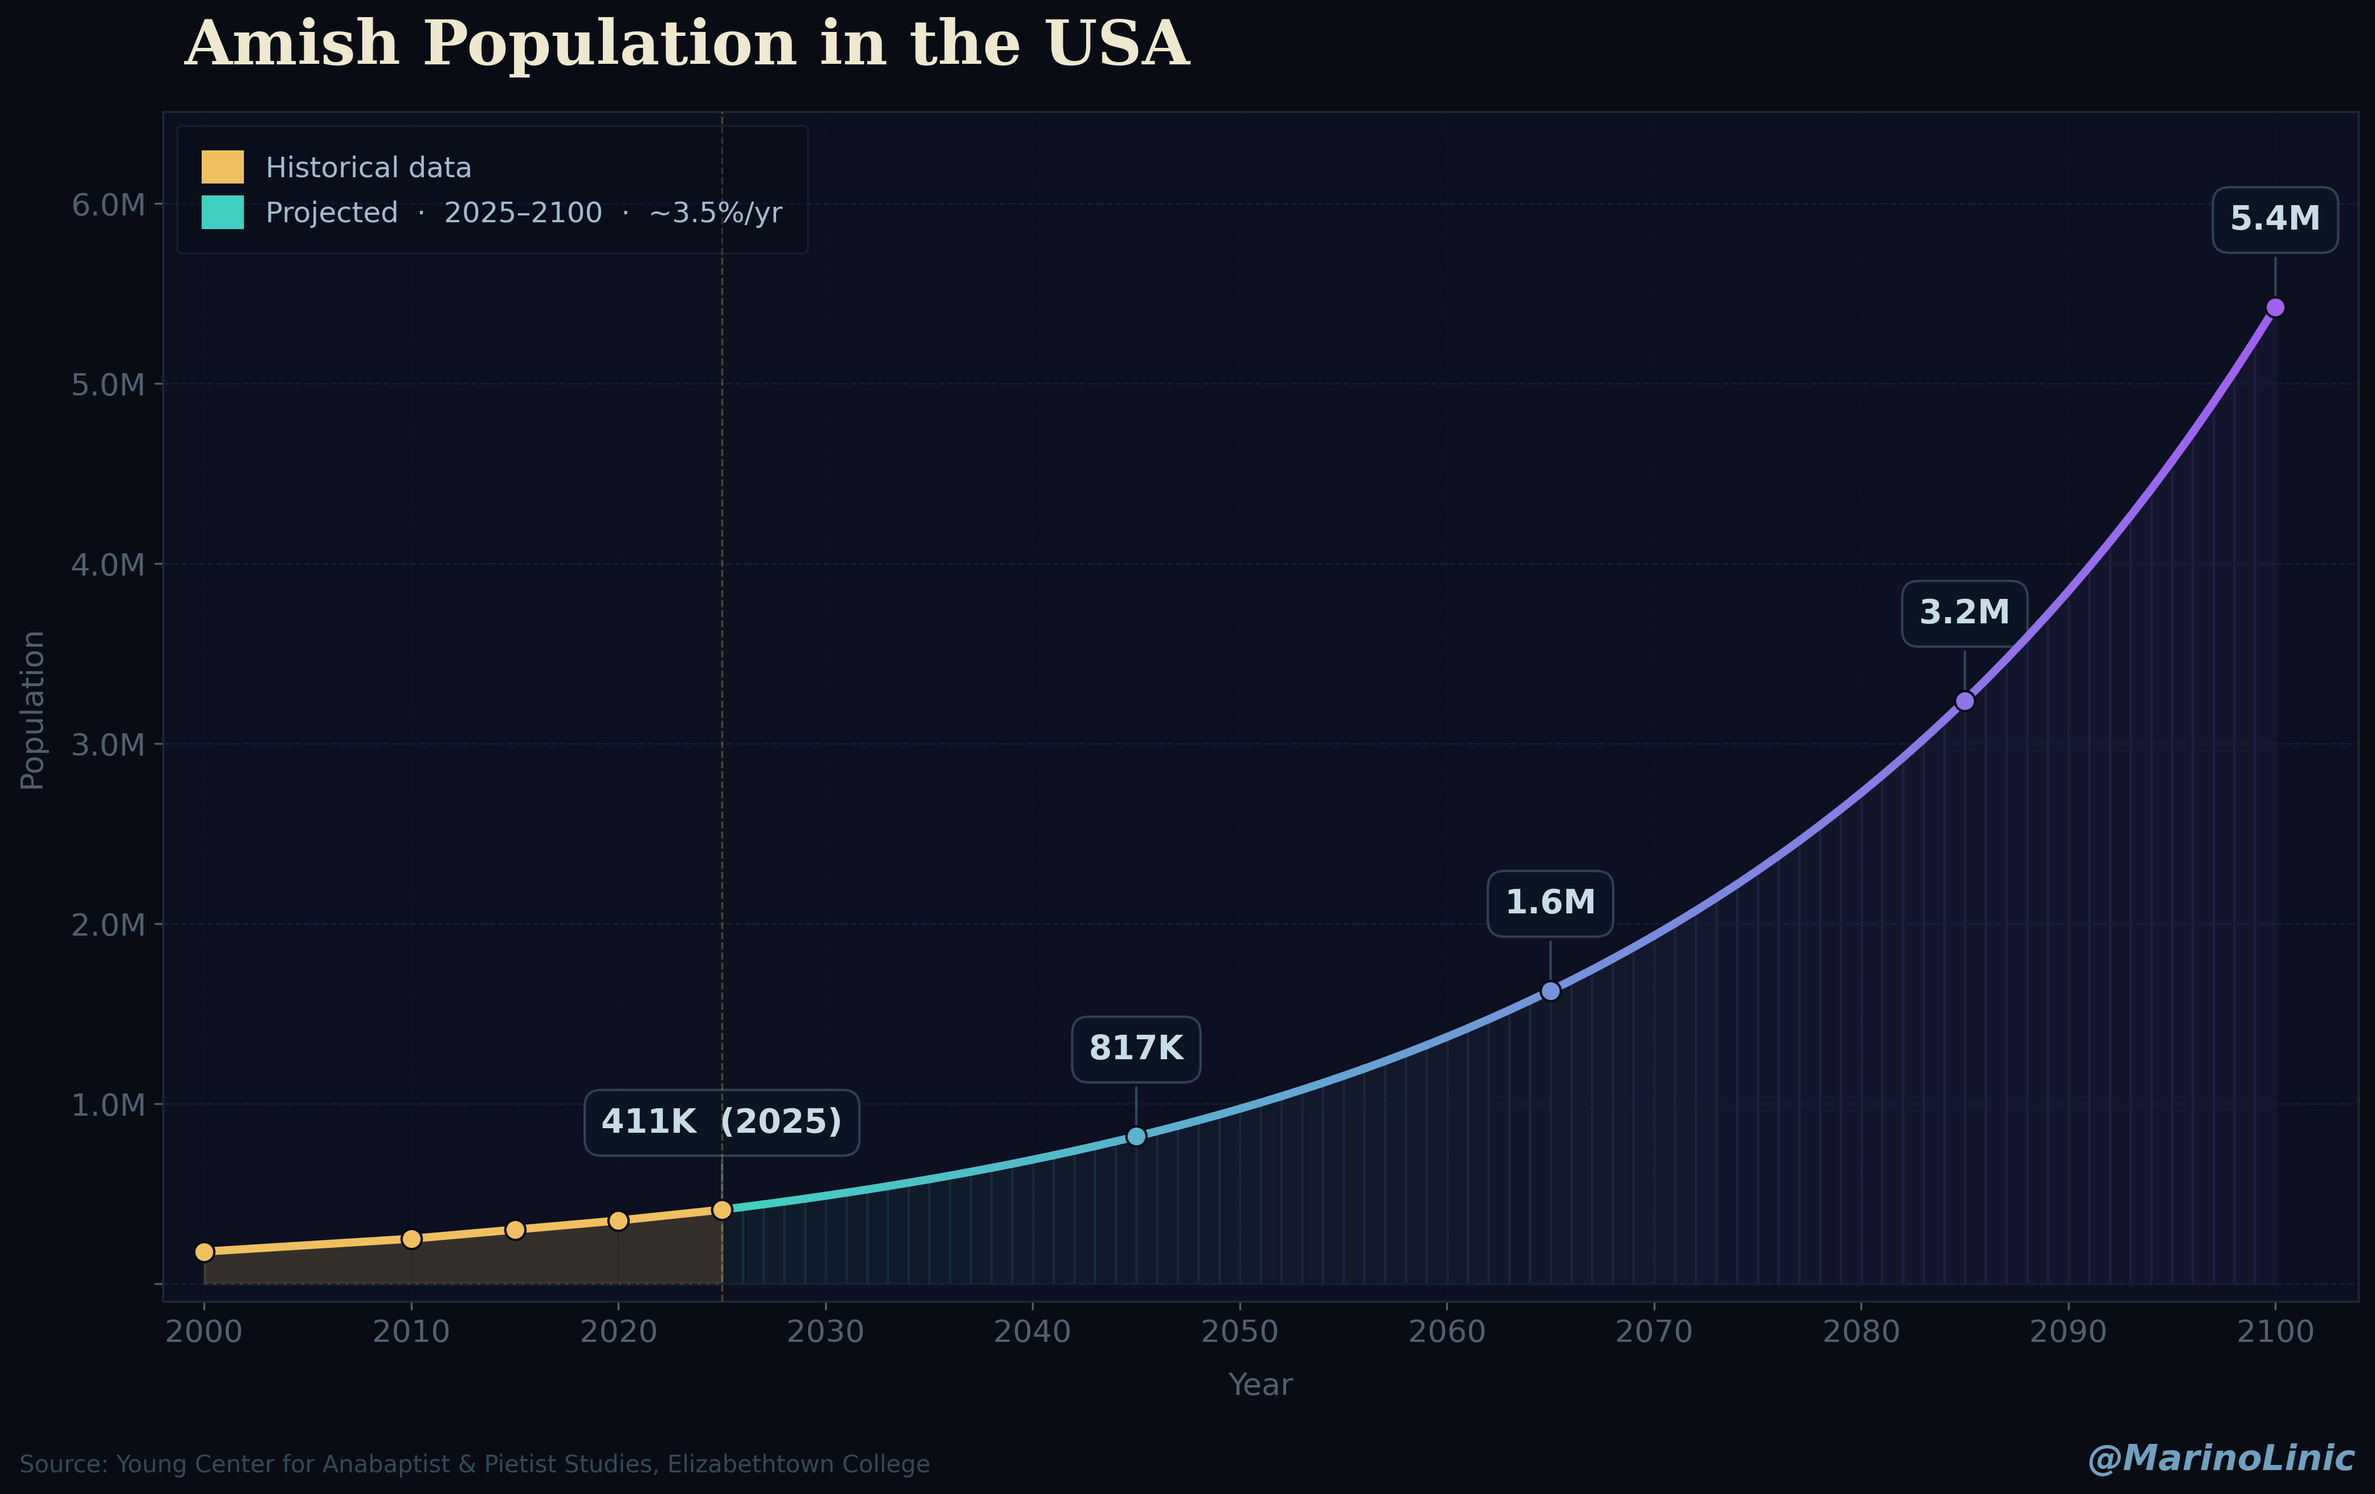
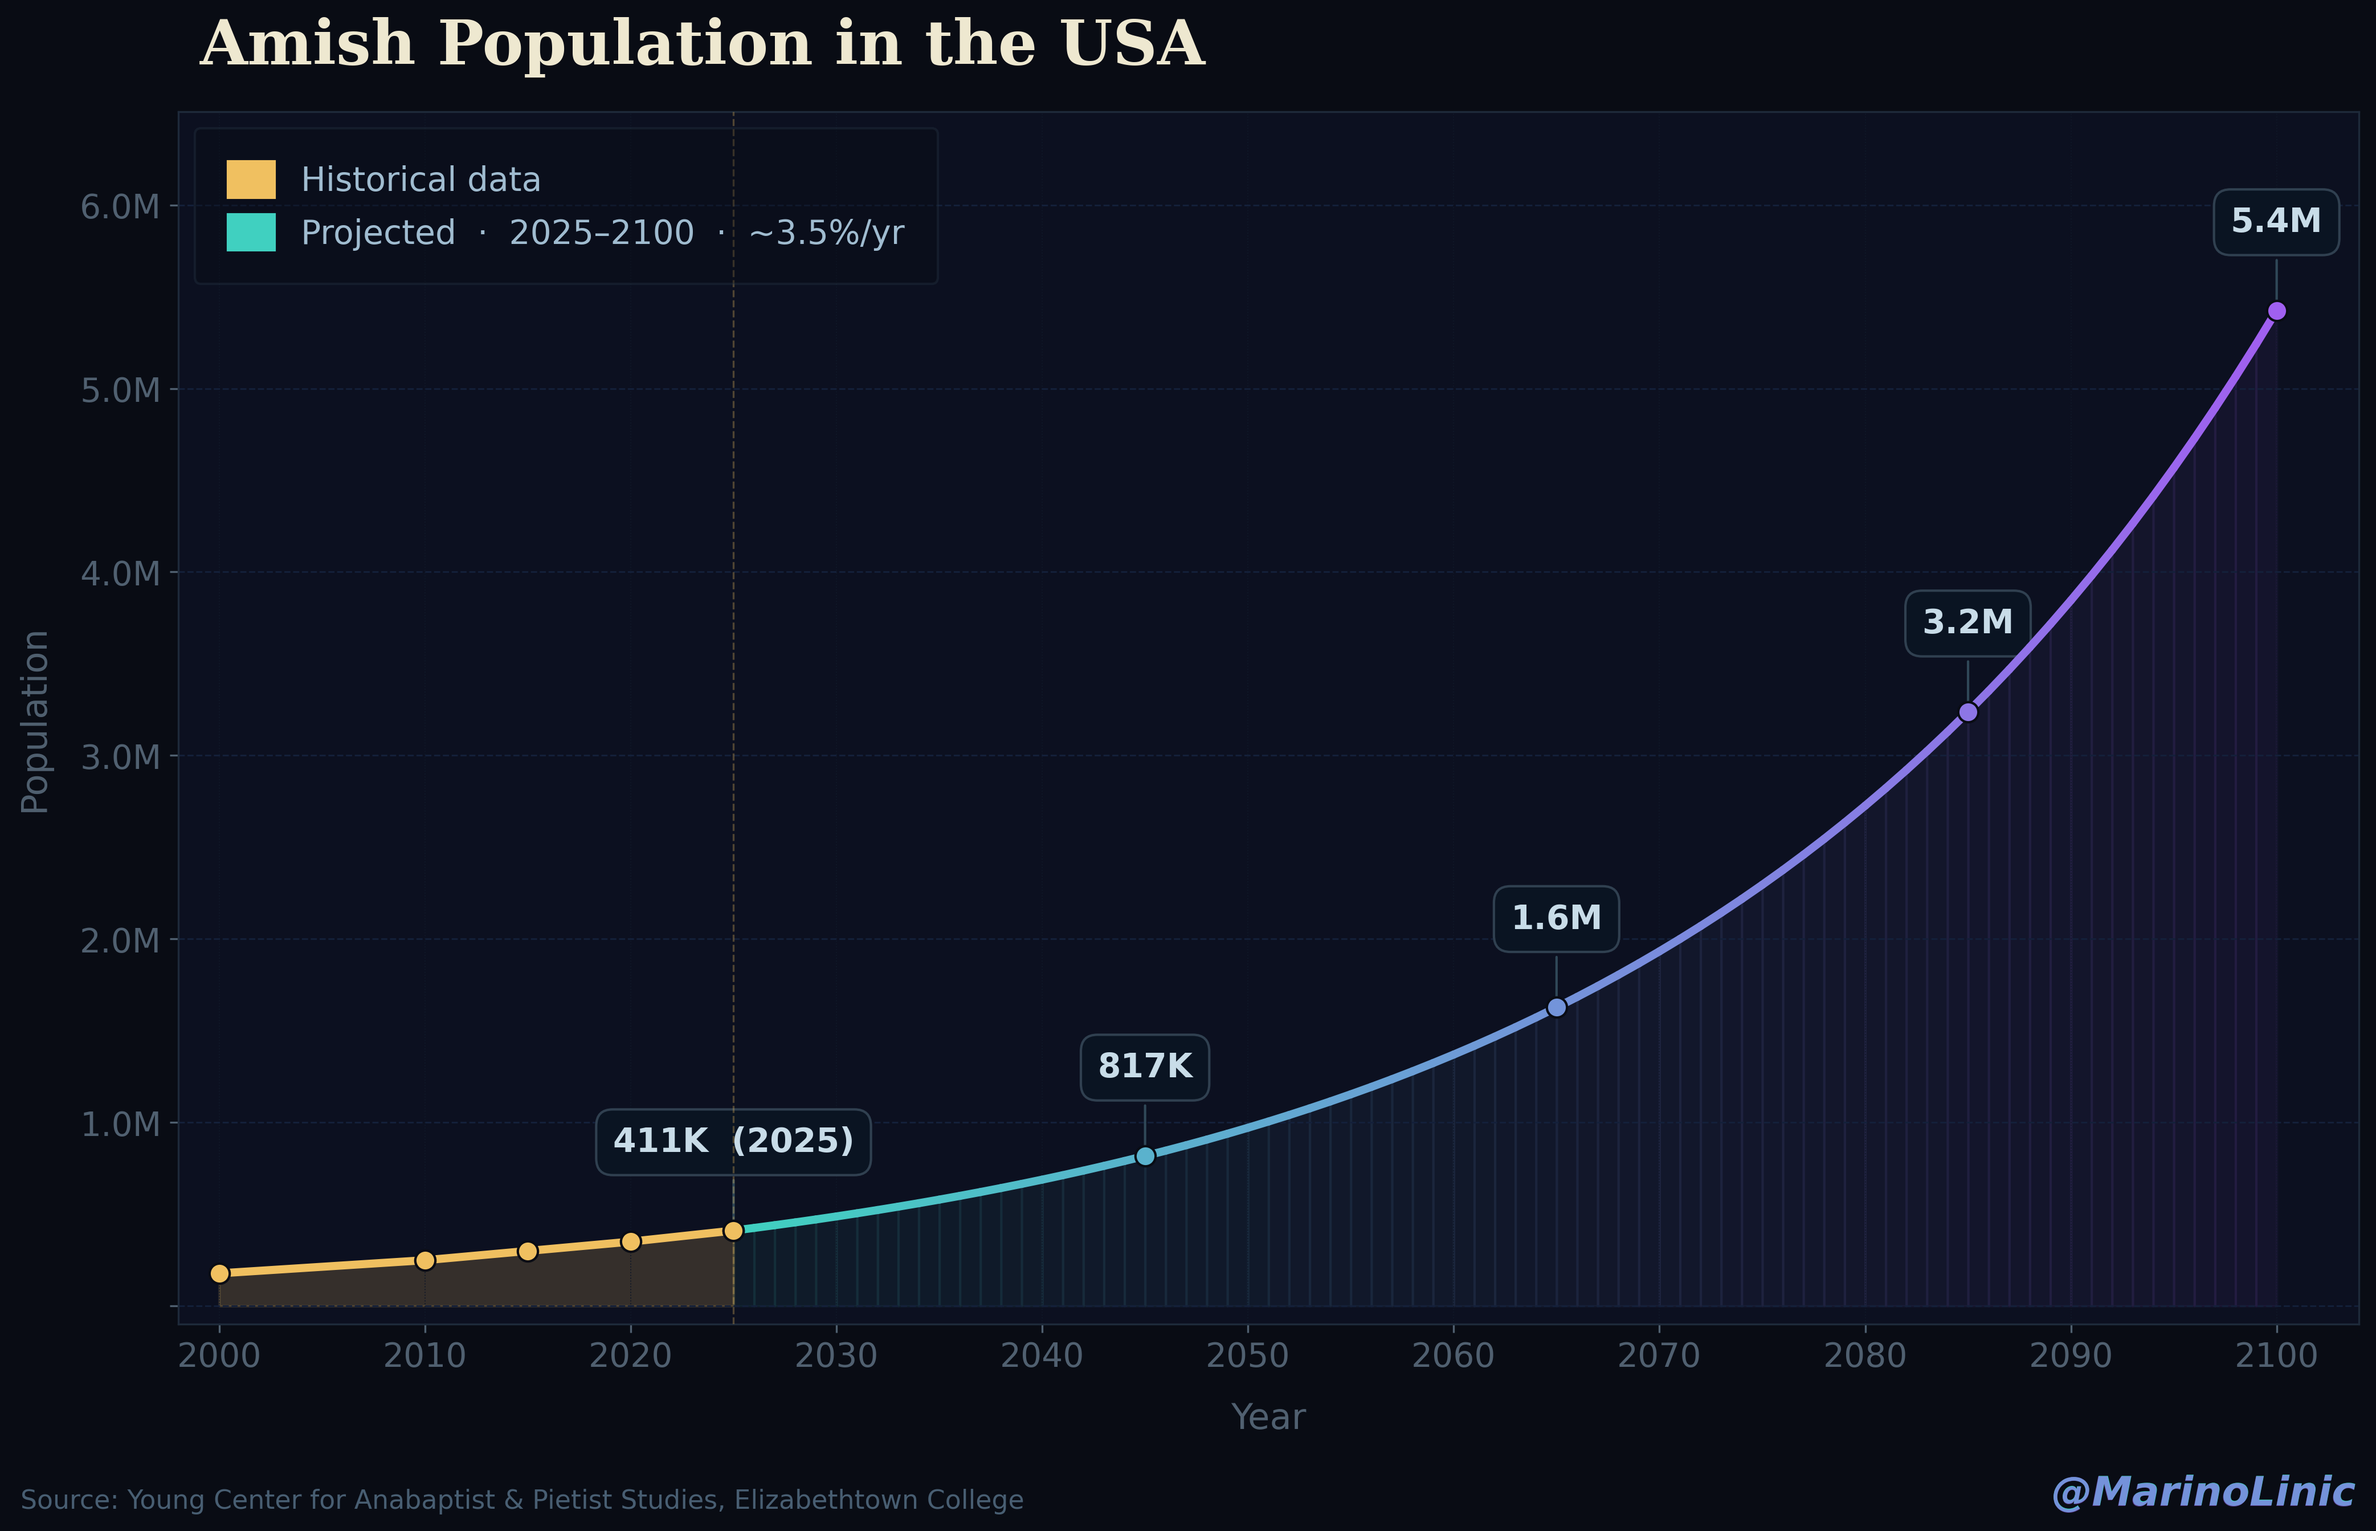
.

diff --git a/amish-growth-2100.py b/amish-growth-2100.py
@@ -3,40 +3,78 @@ import matplotlib.patches as mpatches
 import matplotlib.ticker as mticker
 import numpy as np
 from matplotlib.colors import LinearSegmentedColormap
+from matplotlib.patheffects import withStroke
 
-# Project setup
-file = "images/amish_population_2100"
+# =============================================================================
+# PROJECT SETUP
+# =============================================================================
+file   = "images/amish_population_2100"
 author = "@MarinoLinic"
 source = "Source: Young Center for Anabaptist & Pietist Studies, Elizabethtown College"
-title = "Amish Population in the USA"
+title  = "Amish Population in the USA"
 
-# Color scheme
-BG           = "#090c14"
-BG_AX        = "#0c1020"
-COL_HIST     = "#f0c060"
-COL_MARK     = "#f0c060"
-COL_PROJ_A   = "#40d0c0"
-COL_PROJ_B   = "#a060f0"
-COL_FILL_H   = "#f0c060"
-COL_GRID_Y   = "#14203a"
-COL_GRID_X   = "#101828"
-COL_SPINE    = "#1e2a3a"
-COL_TICK     = "#506070"
-COL_TITLE    = "#eee8d0"
-COL_AXIS_LBL = "#506070"
-COL_ANNOT_TXT= "#c8dce8"
-COL_ANNOT_BG = "#0a1422"
-COL_ANNOT_EC = "#304050"
-COL_ANNOT_AR = "#304858"
-COL_SOURCE   = "#344858"
-COL_HANDLE   = "#70a0c0"
-COL_LEG_LBL  = "#a0bcd0"
-COL_LEG_EDGE = "#283848"
+# =============================================================================
+# COLORS
+# =============================================================================
+BG            = "#090c14"
+BG_AX         = "#0c1020"
+COL_HIST      = "#f0c060"
+COL_MARK      = "#f0c060"
+COL_PROJ_A    = "#40d0c0"
+COL_PROJ_B    = "#a060f0"
+COL_FILL_H    = "#f0c060"
+COL_GRID_Y    = "#14203a"
+COL_GRID_X    = "#101828"
+COL_SPINE     = "#1e2a3a"
+COL_TICK      = "#506070"
+COL_TITLE     = "#eee8d0"
+COL_AXIS_LBL  = "#506070"
+COL_ANNOT_TXT = "#c8dce8"
+COL_ANNOT_BG  = "#0a1422"
+COL_ANNOT_EC  = "#304050"
+COL_ANNOT_AR  = "#304858"
+COL_SOURCE    = "#485e72"
+COL_HANDLE_A  = "#40d0c0"   # gradient start — matches proj line cyan
+COL_HANDLE_B  = "#a060f0"   # gradient end   — matches proj line violet
+COL_LEG_LBL   = "#a0bcd0"
+COL_LEG_EDGE  = "#283848"
+COL_GLOW      = "#090c14"   # path effect stroke color for username
 
-# Data
-years = np.arange(2000, 2101, 1)
-base_year = 2025
-base_pop = 411_000
+# =============================================================================
+# TEXT SIZES & STYLES
+# =============================================================================
+FS_TITLE      = 26
+FS_AXIS_LBL   = 15
+FS_TICK       = 14
+FS_LEGEND     = 14
+FS_ANNOT      = 14
+FS_SOURCE     = 11
+FS_HANDLE     = 17
+
+FW_TITLE      = "bold"
+FW_ANNOT      = "bold"
+FW_HANDLE     = "bold"
+
+FF_TITLE      = "serif"
+FS_TITLE_PAD  = 20          # padding between title and top of axes
+FI_HANDLE     = "italic"
+
+# =============================================================================
+# FIGURE & EXPORT
+# =============================================================================
+FIG_W         = 14          # figure width in inches
+FIG_H         = 9.6         # figure height in inches
+FIG_DPI       = 300
+FIG_TOP_PAD   = 0.06        # fraction of figure height reserved above axes
+FIG_BOT_PAD   = 0.045       # fraction of figure height reserved below axes (captions)
+FIXED_OFFSET  = 430_000     # uniform vertical offset for milestone annotations
+
+# =============================================================================
+# DATA
+# =============================================================================
+years      = np.arange(2000, 2101, 1)
+base_year  = 2025
+base_pop   = 411_000
 growth_rate = 0.035
 
 def proj(yr: int) -> int:
@@ -69,8 +107,10 @@ for yr in milestone_years:
     label = "411K  (2025)" if yr == 2025 else fmt_pop(proj(yr))
     milestones[yr] = (p, label)
 
-# Figure — extra headroom top, caption space bottom
-fig, ax = plt.subplots(figsize=(14, 8.8))
+# =============================================================================
+# FIGURE
+# =============================================================================
+fig, ax = plt.subplots(figsize=(FIG_W, FIG_H))
 fig.patch.set_facecolor(BG)
 ax.set_facecolor(BG_AX)
 
@@ -94,16 +134,15 @@ ax.plot(hist_years, hist_pops,
 ax.scatter(hist_years, hist_pops,
            color=COL_HIST, s=72, zorder=6, edgecolors=BG, linewidths=1.0)
 
-# Milestones — uniform fixed offset
-FIXED_OFFSET = 430_000
+# Milestones
 for yr, (pop_val, label) in milestones.items():
     t = max(0.0, (yr - 2025) / (2100 - 2025))
     dot_color = COL_HIST if yr <= 2025 else cmap_proj(t)
     ax.annotate(label,
                 xy=(yr, pop_val),
                 xytext=(yr, pop_val + FIXED_OFFSET),
-                fontsize=14,
-                fontweight="bold",
+                fontsize=FS_ANNOT,
+                fontweight=FW_ANNOT,
                 color=COL_ANNOT_TXT,
                 ha="center",
                 arrowprops=dict(arrowstyle="-", color=COL_ANNOT_AR, lw=1.0),
@@ -127,18 +166,18 @@ ax.yaxis.set_major_formatter(
 
 for spine in ax.spines.values():
     spine.set_edgecolor(COL_SPINE)
-ax.tick_params(colors=COL_TICK, labelsize=13)
+ax.tick_params(colors=COL_TICK, labelsize=FS_TICK)
 ax.grid(axis="y", color=COL_GRID_Y, linewidth=0.7, linestyle="--")
 ax.grid(axis="x", color=COL_GRID_X, linewidth=0.45, linestyle=":")
 
-# Title — large, bold, top left
-ax.set_title(title, color=COL_TITLE, fontsize=26, pad=20,
-             fontweight="bold", fontfamily="serif", loc="left", x=0.01)
+# Title
+ax.set_title(title, color=COL_TITLE, fontsize=FS_TITLE, pad=FS_TITLE_PAD,
+             fontweight=FW_TITLE, fontfamily=FF_TITLE, loc="left", x=0.01)
 
-ax.set_xlabel("Year", color=COL_AXIS_LBL, fontsize=13, labelpad=10)
-ax.set_ylabel("Population", color=COL_AXIS_LBL, fontsize=13, labelpad=10)
+ax.set_xlabel("Year", color=COL_AXIS_LBL, fontsize=FS_AXIS_LBL, labelpad=12)
+ax.set_ylabel("Population", color=COL_AXIS_LBL, fontsize=FS_AXIS_LBL, labelpad=12)
 
-# Legend — top LEFT, clear of line, includes subtitle info
+# Legend
 hist_patch = mpatches.Patch(color=COL_HIST, label="Historical data")
 proj_patch = mpatches.Patch(color=COL_PROJ_A,
                              label=f"Projected  ·  2025–2100  ·  ~{growth_rate*100:.1f}%/yr")
@@ -148,23 +187,52 @@ ax.legend(handles=[hist_patch, proj_patch],
           facecolor=BG,
           edgecolor=COL_LEG_EDGE,
           labelcolor=COL_LEG_LBL,
-          fontsize=12,
+          fontsize=FS_LEGEND,
           handlelength=1.4,
           handleheight=1.3,
-          borderpad=0.9)
+          borderpad=1.0)
 
-# Caption row — fully outside axes in figure space
+# Source
 fig.text(0.012, 0.013, source,
-         fontsize=10, color=COL_SOURCE, ha="left", va="bottom",
-         transform=fig.transFigure)
-fig.text(0.988, 0.013, author,
-         fontsize=15, color=COL_HANDLE, ha="right", va="bottom",
-         fontstyle="italic", fontweight="bold",
+         fontsize=FS_SOURCE, color=COL_SOURCE, ha="left", va="bottom",
          transform=fig.transFigure)
 
-# rect as tuple — fixes Pylance reportArgumentType
-plt.tight_layout(rect=(0.0, 0.045, 1.0, 1.0))
-plt.savefig(f"{file}.png", dpi=300, bbox_inches="tight", facecolor=BG)
+# Username — single text object, gradient cyan→violet via a multi-color
+# workaround: render the full string in cyan, then overlay in violet clipped
+# to the right half. Simple & clean — no per-character spacing drift.
+# We use two overlapping texts with a clip rectangle on the top one.
+cmap_handle = LinearSegmentedColormap.from_list("hg", [COL_HANDLE_A, COL_HANDLE_B])
+
+# Render each character individually using consistent monospace-like spacing
+# anchored from the right so overall alignment is stable
+n_chars = len(author)
+# Place a transparent reference text to find the bounding box
+ref = fig.text(0.988, 0.013, author,
+               fontsize=FS_HANDLE, color=(0, 0, 0, 0),
+               ha="right", va="bottom",
+               fontstyle=FI_HANDLE, fontweight=FW_HANDLE,
+               transform=fig.transFigure)
+
+# Draw the visible gradient text on top using a simple two-layer approach:
+# bottom layer full string in start color, top layer full string in end color
+# with alpha fade — gives a smooth left-to-right gradient impression
+t1 = fig.text(0.988, 0.013, author,
+              fontsize=FS_HANDLE, color=COL_HANDLE_A,
+              ha="right", va="bottom",
+              fontstyle=FI_HANDLE, fontweight=FW_HANDLE,
+              transform=fig.transFigure)
+t1.set_path_effects([withStroke(linewidth=3, foreground=COL_GLOW)])
+
+t2 = fig.text(0.988, 0.013, author,
+              fontsize=FS_HANDLE, color=COL_HANDLE_B,
+              ha="right", va="bottom",
+              fontstyle=FI_HANDLE, fontweight=FW_HANDLE,
+              alpha=0.55,
+              transform=fig.transFigure)
+
+# Space above title: achieved by shrinking the axes top boundary
+plt.tight_layout(rect=(0.0, FIG_BOT_PAD, 1.0, 1.0 - FIG_TOP_PAD))
+plt.savefig(f"{file}.png", dpi=FIG_DPI, bbox_inches="tight", facecolor=BG)
 print("Image saved.")
 
 
